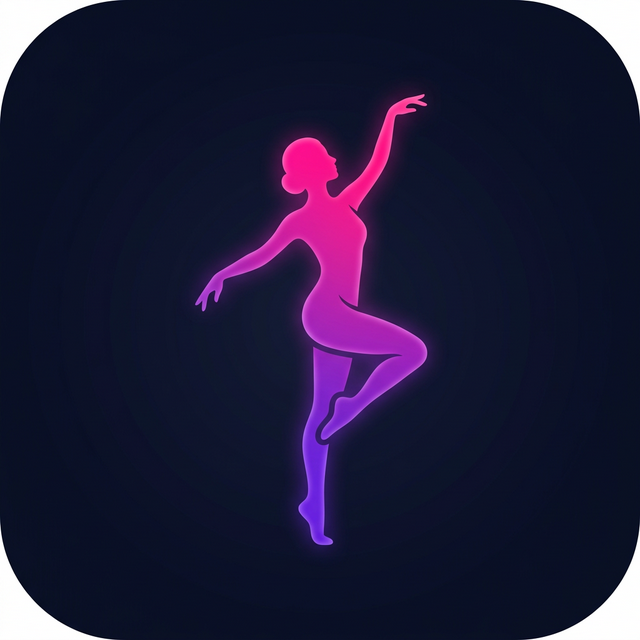
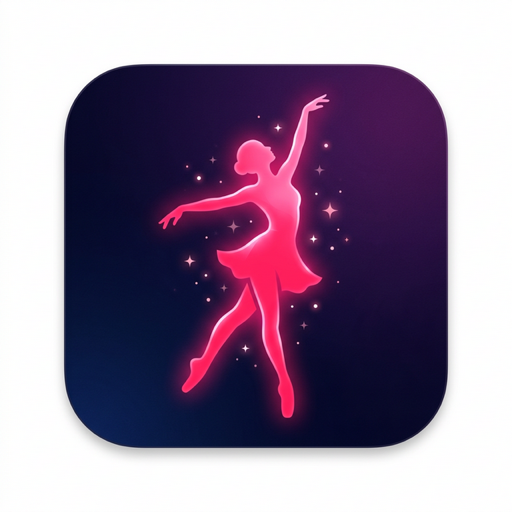
feat: PWA 앱 이름→스텝바이스텝, 프리미엄 아이콘 교체, Everyone Needs a Hero 메타데이터 보강

diff --git a/index.html b/index.html
@@ -9,13 +9,13 @@
   <meta name="theme-color" content="#0a0a0f" />
   <meta name="apple-mobile-web-app-capable" content="yes" />
   <meta name="apple-mobile-web-app-status-bar-style" content="black-translucent" />
-  <meta name="apple-mobile-web-app-title" content="구양희 STEP-BY-STEP" />
+  <meta name="apple-mobile-web-app-title" content="스텝바이스텝" />
 
-  <title>구양희 STEP-BY-STEP 💃 라인댄스</title>
+  <title>스텝바이스텝 💃 라인댄스</title>
   <meta name="description" content="라인댄스 회원을 위한 수업 일정, 안무 영상, 공지사항 앱" />
 
   <meta property="og:type" content="website" />
-  <meta property="og:title" content="구양희 STEP-BY-STEP 💃 라인댄스" />
+  <meta property="og:title" content="스텝바이스텝 💃 라인댄스" />
   <meta property="og:description" content="라인댄스 회원을 위한 수업 일정, 안무 영상, 공지사항을 확인하세요!" />
   <link rel="manifest" href="/manifest.json" />
   <link rel="apple-touch-icon" href="/icon-192.png" />
@@ -26,7 +26,8 @@
   <noscript>앱을 사용하려면 기기의 자바스크립트를 활성화해주세요.</noscript>
 
   <div id="root" style="background-color: #0a0a0f; min-height: 100vh;">
-    <div style="display: flex; flex-direction: column; align-items: center; justify-content: center; min-height: 100vh;">
+    <div
+      style="display: flex; flex-direction: column; align-items: center; justify-content: center; min-height: 100vh;">
       <style>
         .initial-loader {
           width: 48px;

diff --git a/src/data/songs.js b/src/data/songs.js
@@ -3,8 +3,8 @@ const songs = [
   {
     id: 10,
     title: "Everyone Needs a Hero",
-    artist: "Various",
-    choreographer: "Unknown",
+    artist: "Adam Lambert",
+    choreographer: "Roy Verdonk, Grace David & Jef Camps",
     level: 2,
     bpm: 120,
     walls: 2,
